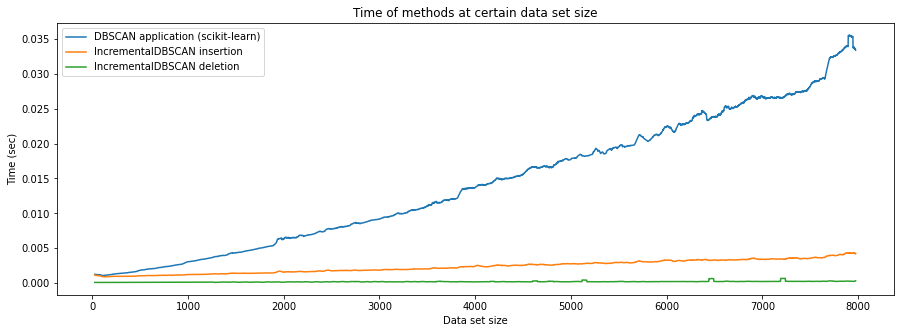
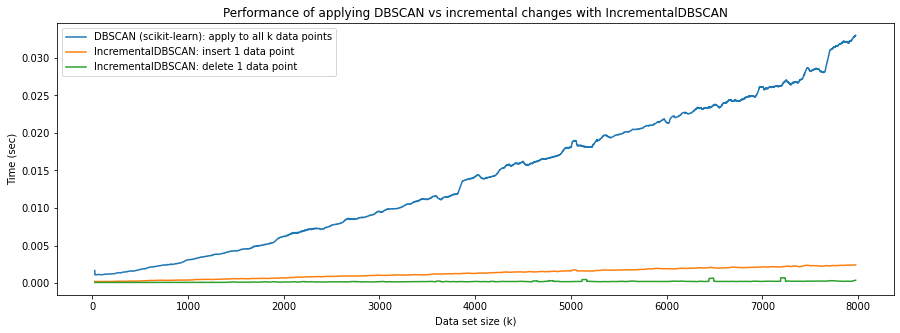
Update information about performance

diff --git a/README.md b/README.md
@@ -32,7 +32,7 @@ The `incdbscan` package is an implementation of the IncrementalDBSCAN algorithm 
 pip install incdbscan
 ```
 
-The latest version of the package requires at least Python 3.9.
+The latest version of the package requires at least Python 3.10.
 
 ## Usage
 
@@ -75,11 +75,11 @@ Performance has two components: insertion and deletion cost. The results below a
   <img src="./images/performance.png" alt="indbscan performance">
 </p>
 
-The cost of **inserting** a new data point with IncrementalDBSCAN is quite small and **grows slower** than the cost of applying (`scikit-learns`'s) DBSCAN to a whole data set.  In other words, *given that* we have a data set _D_ clustered with IncrementalDBSCAN, and we want to see which cluster would a new object _P_ belong to, it is faster to insert _P_ into the current IncrementalDBSCAN clustering than to apply DBSCAN to the union of _D_ and _P_.
+The cost of **inserting** a new data point with IncrementalDBSCAN is quite small and **grows slower** than the cost of applying (`scikit-learns`'s) DBSCAN to a whole data set.  In other words, *given that* we have a data set _D_ clustered with IncrementalDBSCAN, and we want to see which cluster would a new object _P_ belong to, it is faster to insert _P_ into the current IncrementalDBSCAN clustering than to apply DBSCAN to the union of _D_ and {_P_}.
 
-The cost of **deleting** a data point with IncrementalDBSCAN **grows slower** than the cost of applying DBSCAN to the data set minus that data point. In other words, *given that* we have a data set _D_ clustered with IncrementalDBSCAN, and we want to see what happens to the clustering after removing an object _P_ from the data set, it is faster to delete _P_ from the existing IncrementalDBSCAN clustering than to apply DBSCAN to the difference of _D_ and {_P_}.
+The cost of **deleting** a data point with IncrementalDBSCAN is quite small and **grows slower** than the cost of applying DBSCAN to the data set minus that data point. In other words, *given that* we have a data set _D_ clustered with IncrementalDBSCAN, and we want to see what happens to the clustering after removing an object _P_ from the data set, it is faster to delete _P_ from the existing IncrementalDBSCAN clustering than to apply DBSCAN to the difference of _D_ and {_P_}.
 
-These results do not imply that it is very efficient to cluster a whole data set with a series of IncrementalDBSCAN insertions. If we measure the time to cluster a data set with DBSCAN versus to cluster the data by adding the data points one by one to IncrementalDBSCAN, IncrementalDBSCAN will be slower compared to DBSCAN. A typical performance number is that clustering 8,000 data points takes about 10-20 seconds with this implementation.
+These results do not imply that it is very efficient to cluster a whole data set with a series of IncrementalDBSCAN insertions. If we measure the time to cluster a data set with DBSCAN versus to cluster the data by adding the data points one by one to IncrementalDBSCAN, IncrementalDBSCAN will be slower compared to DBSCAN. A typical performance number is that clustering 8,000 data points takes about 10 seconds with this implementation.
 
 See [this notebook](https://github.com/DataOmbudsman/incdbscan/blob/master/notebooks/performance.ipynb) about performance for more details.
 
